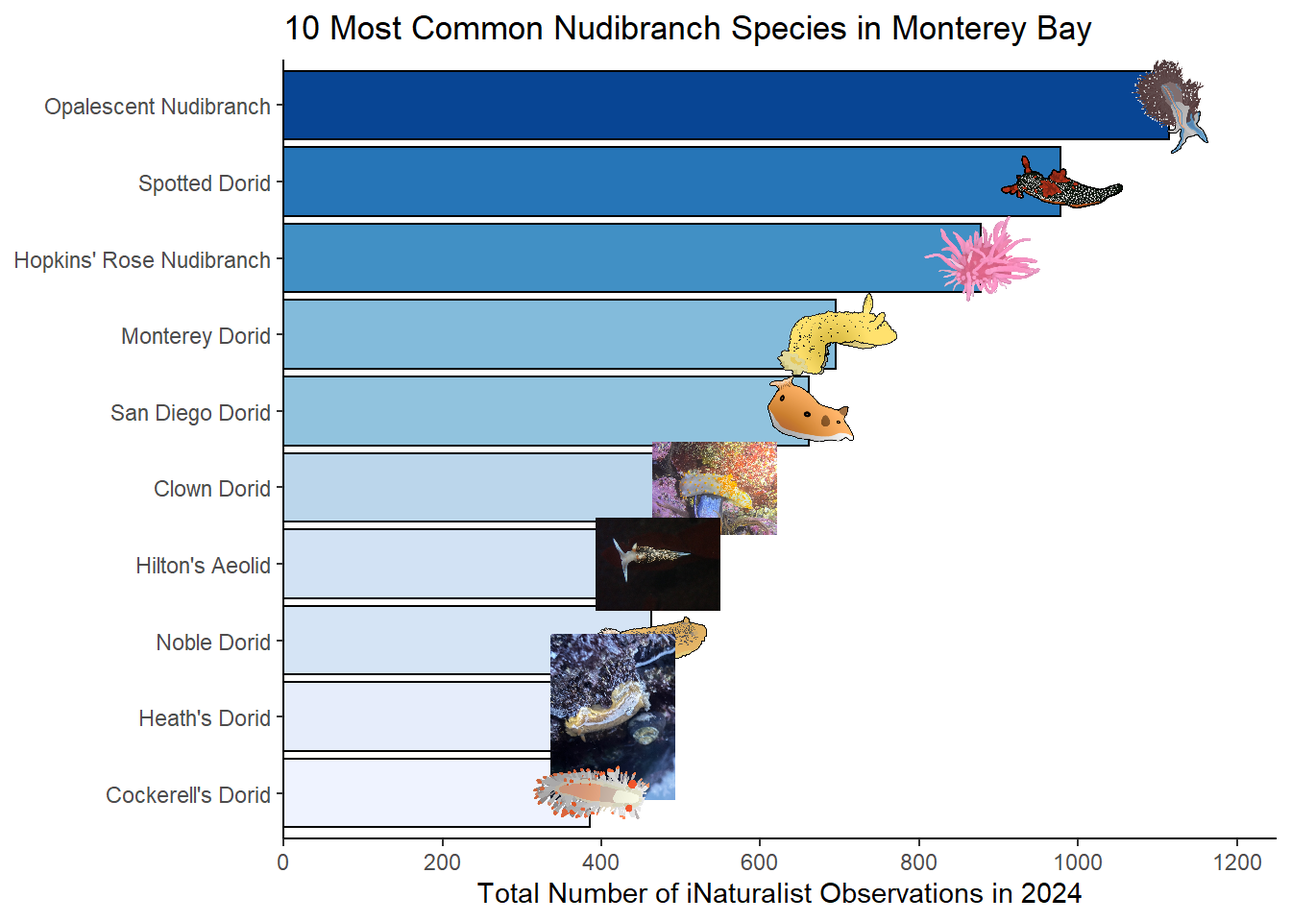
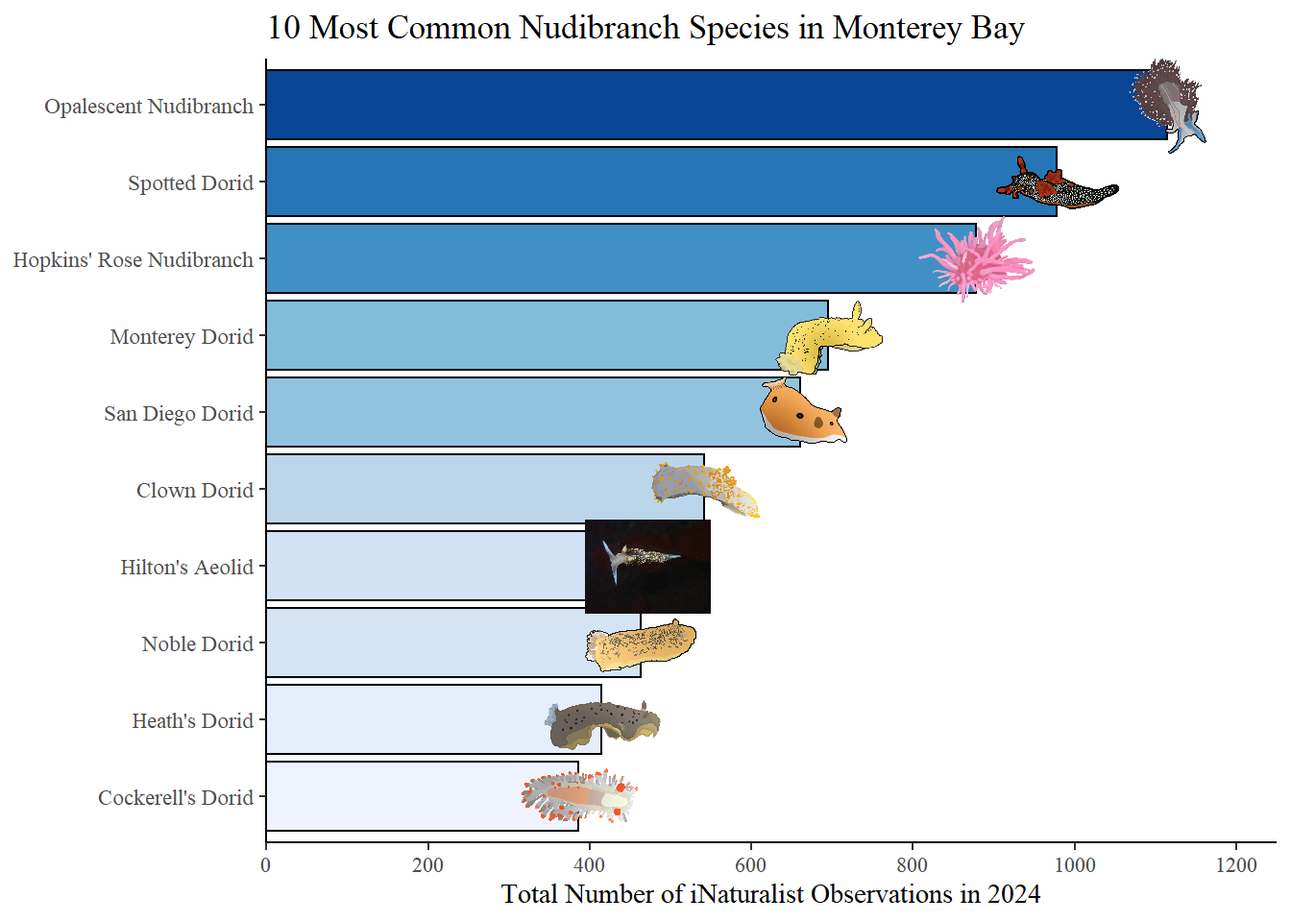
Finishing project

diff --git a/Portfolio_Project.html b/Portfolio_Project.html
@@ -121,6 +121,46 @@ pre > code.sourceCode > span > a:first-child::before { text-decoration: underlin
 <div class="cell-output cell-output-stderr">
 <pre><code>Warning: package 'ggimage' was built under R version 4.4.3</code></pre>
 </div>
+<div class="sourceCode cell-code" id="cb5"><pre class="sourceCode r code-with-copy"><code class="sourceCode r"><span id="cb5-1"><a href="#cb5-1" aria-hidden="true" tabindex="-1"></a><span class="fu">library</span>(ggraph)</span></code><button title="Copy to Clipboard" class="code-copy-button"><i class="bi"></i></button></pre></div>
+<div class="cell-output cell-output-stderr">
+<pre><code>Warning: package 'ggraph' was built under R version 4.4.3</code></pre>
+</div>
+<div class="sourceCode cell-code" id="cb7"><pre class="sourceCode r code-with-copy"><code class="sourceCode r"><span id="cb7-1"><a href="#cb7-1" aria-hidden="true" tabindex="-1"></a><span class="fu">library</span>(igraph)</span></code><button title="Copy to Clipboard" class="code-copy-button"><i class="bi"></i></button></pre></div>
+<div class="cell-output cell-output-stderr">
+<pre><code>Warning: package 'igraph' was built under R version 4.4.3</code></pre>
+</div>
+<div class="cell-output cell-output-stderr">
+<pre><code>
+Attaching package: 'igraph'
+
+The following objects are masked from 'package:lubridate':
+
+    %--%, union
+
+The following objects are masked from 'package:dplyr':
+
+    as_data_frame, groups, union
+
+The following objects are masked from 'package:purrr':
+
+    compose, simplify
+
+The following object is masked from 'package:tidyr':
+
+    crossing
+
+The following object is masked from 'package:tibble':
+
+    as_data_frame
+
+The following objects are masked from 'package:stats':
+
+    decompose, spectrum
+
+The following object is masked from 'package:base':
+
+    union</code></pre>
+</div>
 </div>
 <section id="data-description" class="level1">
 <h1>Data Description</h1>
@@ -136,7 +176,7 @@ pre > code.sourceCode > span > a:first-child::before { text-decoration: underlin
 <section id="data-visualization" class="level1">
 <h1>Data Visualization</h1>
 <p>To answer my first research question, I want to make a bar chart of the 10 species with the highest number of observations. I will make it in order of frequency, allowing readers to easily determine which species have the highest and lowest number of observations.</p>
-<p>For my second question, I want to make a shiny treemap, containing each of the species divided into family then species. This will help show the biodiversity of nudibranch observations in Monterey Bay by showing the number of different nudibranch families and species there are in Monterey Bay and how common they are compared to each other. Making it a shiny plot will also allow the boxes to be the center of attention instead of being cluttered by text and allow readers to explore the data in a way that a static plot could not.</p>
+<p>For my second question, I want to make a dendrogram, containing each of the species divided into suborder, superfamily, family, genus, then species. This will help show the biodiversity of nudibranch observations in Monterey Bay by showing the number of different nudibranch families and species there are in Monterey Bay. This will not only show how many unique species live in Monterey Bay but also how they relate to one another.</p>
 <p>To answer my final question, I want to make a ridgeline plot of all of the species of nudibranchs included to help show the overall trend of how nudibranch populations change by each month. I may also use annotations to highlight certain times of the year or certain seasons that correspond with peaks/valleys to explain the trend.</p>
 <p>To create a few of these visualizations, I may have to summarize the data into observation counts for each species.</p>
 </section>
@@ -150,7 +190,7 @@ pre > code.sourceCode > span > a:first-child::before { text-decoration: underlin
 <p>As stated in the Data Visualization section, I will have to summarize my data into total number of observations for each species in order to create some of my visualizations.</p>
 <p>One other aspect I am going to want to fix has to do with the common_name variable, as I want to refer to most species of nudibranch by their common name; however, a few species of nudibranch do not have a common name. Thus, I want to find a way to set their common name to be the same as their scientific name or create an entirely new name variable that can use their scientific name in place of the common name.</p>
 <div class="cell">
-<div class="sourceCode cell-code" id="cb5"><pre class="sourceCode r code-with-copy"><code class="sourceCode r"><span id="cb5-1"><a href="#cb5-1" aria-hidden="true" tabindex="-1"></a>nudibranch <span class="ot">&lt;-</span> <span class="fu">read_csv</span>(<span class="st">"data-raw/nudibranch-obs.csv"</span>)</span></code><button title="Copy to Clipboard" class="code-copy-button"><i class="bi"></i></button></pre></div>
+<div class="sourceCode cell-code" id="cb10"><pre class="sourceCode r code-with-copy"><code class="sourceCode r"><span id="cb10-1"><a href="#cb10-1" aria-hidden="true" tabindex="-1"></a>nudibranch <span class="ot">&lt;-</span> <span class="fu">read_csv</span>(<span class="st">"data-raw/nudibranch-obs.csv"</span>)</span></code><button title="Copy to Clipboard" class="code-copy-button"><i class="bi"></i></button></pre></div>
 <div class="cell-output cell-output-stderr">
 <pre><code>Rows: 9687 Columns: 33
 ── Column specification ────────────────────────────────────────────────────────
@@ -165,37 +205,44 @@ date  (1): observed_on
 </div>
 </div>
 <div class="cell">
-<div class="sourceCode cell-code" id="cb7"><pre class="sourceCode r code-with-copy"><code class="sourceCode r"><span id="cb7-1"><a href="#cb7-1" aria-hidden="true" tabindex="-1"></a>tot_nudibranchs <span class="ot">&lt;-</span> nudibranch <span class="sc">|&gt;</span> <span class="co">#saves dataset as "total_nudibranchs"</span></span>
-<span id="cb7-2"><a href="#cb7-2" aria-hidden="true" tabindex="-1"></a>  <span class="fu">mutate</span>(<span class="at">common_name =</span> <span class="fu">coalesce</span>(common_name, scientific_name)) <span class="sc">|&gt;</span> <span class="co">#replaces nas in common name variable with scientific name</span></span>
-<span id="cb7-3"><a href="#cb7-3" aria-hidden="true" tabindex="-1"></a>  <span class="fu">group_by</span>(common_name) <span class="sc">|&gt;</span> </span>
-<span id="cb7-4"><a href="#cb7-4" aria-hidden="true" tabindex="-1"></a>  <span class="fu">summarise</span>(<span class="st">"total_obs"</span> <span class="ot">=</span> <span class="fu">length</span>(common_name)) <span class="co">#summarizes total_obs as the number of each common name observation</span></span>
-<span id="cb7-5"><a href="#cb7-5" aria-hidden="true" tabindex="-1"></a></span>
-<span id="cb7-6"><a href="#cb7-6" aria-hidden="true" tabindex="-1"></a>tot_nudibranchs<span class="sc">$</span>image_file <span class="ot">&lt;-</span> <span class="fu">paste0</span>(<span class="st">"data-raw/nudibranch-photos/"</span>, </span>
-<span id="cb7-7"><a href="#cb7-7" aria-hidden="true" tabindex="-1"></a>                                     tot_nudibranchs<span class="sc">$</span>common_name, <span class="st">".png"</span>) <span class="co">#creates image address variable for each common name (see below)</span></span>
-<span id="cb7-8"><a href="#cb7-8" aria-hidden="true" tabindex="-1"></a></span>
-<span id="cb7-9"><a href="#cb7-9" aria-hidden="true" tabindex="-1"></a><span class="fu">write_csv</span>(tot_nudibranchs, <span class="at">file =</span> <span class="st">'data-clean/tot_nudibranchs.csv'</span>) <span class="co">#save new totals dataset as updated csv file</span></span></code><button title="Copy to Clipboard" class="code-copy-button"><i class="bi"></i></button></pre></div>
+<div class="sourceCode cell-code" id="cb12"><pre class="sourceCode r code-with-copy"><code class="sourceCode r"><span id="cb12-1"><a href="#cb12-1" aria-hidden="true" tabindex="-1"></a>nudibranch2 <span class="ot">&lt;-</span> nudibranch <span class="sc">|&gt;</span> <span class="co">#creates new nudibranch dataset with better naming</span></span>
+<span id="cb12-2"><a href="#cb12-2" aria-hidden="true" tabindex="-1"></a>  <span class="fu">mutate</span>(<span class="at">common_name =</span> <span class="fu">coalesce</span>(common_name, scientific_name)) <span class="sc">|&gt;</span> <span class="co">#replaces nas in common name variable with scientific name</span></span>
+<span id="cb12-3"><a href="#cb12-3" aria-hidden="true" tabindex="-1"></a>  <span class="fu">select</span>(common_name, scientific_name, taxon_family_name)</span>
+<span id="cb12-4"><a href="#cb12-4" aria-hidden="true" tabindex="-1"></a></span>
+<span id="cb12-5"><a href="#cb12-5" aria-hidden="true" tabindex="-1"></a>tot_nudibranch <span class="ot">&lt;-</span> nudibranch2 <span class="sc">|&gt;</span> <span class="co">#saves dataset as "total_nudibranchs"</span></span>
+<span id="cb12-6"><a href="#cb12-6" aria-hidden="true" tabindex="-1"></a>  <span class="fu">group_by</span>(common_name) <span class="sc">|&gt;</span> </span>
+<span id="cb12-7"><a href="#cb12-7" aria-hidden="true" tabindex="-1"></a>  <span class="fu">summarise</span>(<span class="st">"total_obs"</span> <span class="ot">=</span> <span class="fu">length</span>(common_name)) <span class="co">#summarizes total_obs as the number of each common name observation</span></span>
+<span id="cb12-8"><a href="#cb12-8" aria-hidden="true" tabindex="-1"></a></span>
+<span id="cb12-9"><a href="#cb12-9" aria-hidden="true" tabindex="-1"></a>tot_nudibranch <span class="ot">&lt;-</span> nudibranch2 <span class="sc">|&gt;</span> </span>
+<span id="cb12-10"><a href="#cb12-10" aria-hidden="true" tabindex="-1"></a>  <span class="fu">unique</span>() <span class="sc">|&gt;</span></span>
+<span id="cb12-11"><a href="#cb12-11" aria-hidden="true" tabindex="-1"></a>  <span class="fu">inner_join</span>(tot_nudibranch, <span class="at">by =</span> <span class="st">"common_name"</span>) <span class="co">#edits tot_nudibranch dataset to include taxon information</span></span>
+<span id="cb12-12"><a href="#cb12-12" aria-hidden="true" tabindex="-1"></a></span>
+<span id="cb12-13"><a href="#cb12-13" aria-hidden="true" tabindex="-1"></a>tot_nudibranch<span class="sc">$</span>image_file <span class="ot">&lt;-</span> <span class="fu">paste0</span>(<span class="st">"data-raw/nudibranch-photos/"</span>, </span>
+<span id="cb12-14"><a href="#cb12-14" aria-hidden="true" tabindex="-1"></a>                                     tot_nudibranch<span class="sc">$</span>common_name, <span class="st">".png"</span>) <span class="co">#creates image address variable for each common name (see below)</span></span>
+<span id="cb12-15"><a href="#cb12-15" aria-hidden="true" tabindex="-1"></a></span>
+<span id="cb12-16"><a href="#cb12-16" aria-hidden="true" tabindex="-1"></a><span class="fu">write_csv</span>(tot_nudibranch, <span class="at">file =</span> <span class="st">'data-clean/tot_nudibranchs.csv'</span>) <span class="co">#save new totals dataset as updated csv file</span></span></code><button title="Copy to Clipboard" class="code-copy-button"><i class="bi"></i></button></pre></div>
 </div>
-<p>The code to add an image file on lines 74-75 were modeled using a tutorial from Dean Chereden on YouTube. CSE Citation:<br>
+<p>The code to add an image file on lines 83-84 were modeled using a tutorial from Dean Chereden on YouTube. CSE Citation:<br>
 Dean Chereden. Add IMAGES to Charts in RStudio [video]. Youtube. 2023 Apr 27, 8:16 minutes. [accessed 2025 May 1]. https://www.youtube.com/watch?app=desktop&amp;v=Mt-lVqqZCVw.</p>
 <div class="cell">
-<div class="sourceCode cell-code" id="cb8"><pre class="sourceCode r code-with-copy"><code class="sourceCode r"><span id="cb8-1"><a href="#cb8-1" aria-hidden="true" tabindex="-1"></a>tot_nudibranchs <span class="sc">|&gt;</span></span>
-<span id="cb8-2"><a href="#cb8-2" aria-hidden="true" tabindex="-1"></a>  <span class="fu">arrange</span>(<span class="sc">-</span>total_obs) <span class="sc">|&gt;</span> <span class="co">#arrange by descending number of observations of each species</span></span>
-<span id="cb8-3"><a href="#cb8-3" aria-hidden="true" tabindex="-1"></a>  <span class="fu">head</span>(<span class="dv">10</span>) <span class="sc">|&gt;</span> <span class="co">#select only top 10 observations</span></span>
-<span id="cb8-4"><a href="#cb8-4" aria-hidden="true" tabindex="-1"></a>  <span class="fu">ggplot</span>(<span class="fu">aes</span>(<span class="at">x =</span> total_obs, </span>
-<span id="cb8-5"><a href="#cb8-5" aria-hidden="true" tabindex="-1"></a>               <span class="at">y =</span> <span class="fu">fct_reorder</span>(common_name, total_obs))) <span class="sc">+</span> <span class="co">#create plot with given aesthetics</span></span>
-<span id="cb8-6"><a href="#cb8-6" aria-hidden="true" tabindex="-1"></a>  <span class="fu">geom_col</span>(<span class="fu">aes</span>(<span class="at">fill =</span> total_obs), </span>
-<span id="cb8-7"><a href="#cb8-7" aria-hidden="true" tabindex="-1"></a>           <span class="at">color =</span> <span class="st">"black"</span>) <span class="sc">+</span> <span class="co">#create bar plot with color based on observation number</span></span>
-<span id="cb8-8"><a href="#cb8-8" aria-hidden="true" tabindex="-1"></a>  <span class="fu">guides</span>(<span class="at">fill =</span> <span class="st">"none"</span>) <span class="sc">+</span> <span class="co">#remove legend</span></span>
-<span id="cb8-9"><a href="#cb8-9" aria-hidden="true" tabindex="-1"></a>  <span class="fu">labs</span>(<span class="at">x =</span> <span class="st">"Total Number of iNaturalist Observations in 2024"</span>,</span>
-<span id="cb8-10"><a href="#cb8-10" aria-hidden="true" tabindex="-1"></a>       <span class="at">title =</span> <span class="st">"10 Most Common Nudibranch Species in Monterey Bay"</span>) <span class="sc">+</span> <span class="co">#create descriptive labels</span></span>
-<span id="cb8-11"><a href="#cb8-11" aria-hidden="true" tabindex="-1"></a>  <span class="fu">scale_x_continuous</span>(<span class="at">expand =</span> <span class="fu">c</span>(<span class="dv">0</span>,<span class="dv">0</span>), </span>
-<span id="cb8-12"><a href="#cb8-12" aria-hidden="true" tabindex="-1"></a>                     <span class="at">limits =</span> <span class="fu">c</span>(<span class="dv">0</span>,<span class="dv">1250</span>),</span>
-<span id="cb8-13"><a href="#cb8-13" aria-hidden="true" tabindex="-1"></a>                     <span class="at">breaks =</span> <span class="fu">c</span>(<span class="dv">0</span>, <span class="dv">200</span>, <span class="dv">400</span>, <span class="dv">600</span>, <span class="dv">800</span>, <span class="dv">1000</span>, <span class="dv">1200</span>)) <span class="sc">+</span> <span class="co">#resize x axis scale</span></span>
-<span id="cb8-14"><a href="#cb8-14" aria-hidden="true" tabindex="-1"></a>  <span class="fu">geom_image</span>(<span class="fu">aes</span>(<span class="at">image =</span> image_file),</span>
-<span id="cb8-15"><a href="#cb8-15" aria-hidden="true" tabindex="-1"></a>             <span class="at">size =</span> <span class="fl">0.16</span>) <span class="sc">+</span> <span class="co">#insert image on each bar in the bar plot (see below)</span></span>
-<span id="cb8-16"><a href="#cb8-16" aria-hidden="true" tabindex="-1"></a>  <span class="fu">theme_classic</span>() <span class="sc">+</span> <span class="co">#set theme to classic</span></span>
-<span id="cb8-17"><a href="#cb8-17" aria-hidden="true" tabindex="-1"></a>  <span class="fu">theme</span>(<span class="at">axis.title.y =</span> <span class="fu">element_blank</span>()) <span class="sc">+</span> <span class="co">#remove y axis label</span></span>
-<span id="cb8-18"><a href="#cb8-18" aria-hidden="true" tabindex="-1"></a>  <span class="fu">scale_fill_distiller</span>(<span class="at">direction =</span> <span class="dv">1</span>) <span class="co">#change fill color to brewer blues</span></span></code><button title="Copy to Clipboard" class="code-copy-button"><i class="bi"></i></button></pre></div>
+<div class="sourceCode cell-code" id="cb13"><pre class="sourceCode r code-with-copy"><code class="sourceCode r"><span id="cb13-1"><a href="#cb13-1" aria-hidden="true" tabindex="-1"></a>tot_nudibranch <span class="sc">|&gt;</span></span>
+<span id="cb13-2"><a href="#cb13-2" aria-hidden="true" tabindex="-1"></a>  <span class="fu">arrange</span>(<span class="sc">-</span>total_obs) <span class="sc">|&gt;</span> <span class="co">#arrange by descending number of observations of each species</span></span>
+<span id="cb13-3"><a href="#cb13-3" aria-hidden="true" tabindex="-1"></a>  <span class="fu">head</span>(<span class="dv">10</span>) <span class="sc">|&gt;</span> <span class="co">#select only top 10 observations</span></span>
+<span id="cb13-4"><a href="#cb13-4" aria-hidden="true" tabindex="-1"></a>  <span class="fu">ggplot</span>(<span class="fu">aes</span>(<span class="at">x =</span> total_obs, </span>
+<span id="cb13-5"><a href="#cb13-5" aria-hidden="true" tabindex="-1"></a>               <span class="at">y =</span> <span class="fu">fct_reorder</span>(common_name, total_obs))) <span class="sc">+</span> <span class="co">#create plot with given aesthetics</span></span>
+<span id="cb13-6"><a href="#cb13-6" aria-hidden="true" tabindex="-1"></a>  <span class="fu">geom_col</span>(<span class="fu">aes</span>(<span class="at">fill =</span> total_obs), </span>
+<span id="cb13-7"><a href="#cb13-7" aria-hidden="true" tabindex="-1"></a>           <span class="at">color =</span> <span class="st">"black"</span>) <span class="sc">+</span> <span class="co">#create bar plot with color based on observation number</span></span>
+<span id="cb13-8"><a href="#cb13-8" aria-hidden="true" tabindex="-1"></a>  <span class="fu">guides</span>(<span class="at">fill =</span> <span class="st">"none"</span>) <span class="sc">+</span> <span class="co">#remove legend</span></span>
+<span id="cb13-9"><a href="#cb13-9" aria-hidden="true" tabindex="-1"></a>  <span class="fu">labs</span>(<span class="at">x =</span> <span class="st">"Total Number of iNaturalist Observations in 2024"</span>,</span>
+<span id="cb13-10"><a href="#cb13-10" aria-hidden="true" tabindex="-1"></a>       <span class="at">title =</span> <span class="st">"10 Most Common Nudibranch Species in Monterey Bay"</span>) <span class="sc">+</span> <span class="co">#create descriptive labels</span></span>
+<span id="cb13-11"><a href="#cb13-11" aria-hidden="true" tabindex="-1"></a>  <span class="fu">scale_x_continuous</span>(<span class="at">expand =</span> <span class="fu">c</span>(<span class="dv">0</span>,<span class="dv">0</span>), </span>
+<span id="cb13-12"><a href="#cb13-12" aria-hidden="true" tabindex="-1"></a>                     <span class="at">limits =</span> <span class="fu">c</span>(<span class="dv">0</span>,<span class="dv">1250</span>),</span>
+<span id="cb13-13"><a href="#cb13-13" aria-hidden="true" tabindex="-1"></a>                     <span class="at">breaks =</span> <span class="fu">c</span>(<span class="dv">0</span>, <span class="dv">200</span>, <span class="dv">400</span>, <span class="dv">600</span>, <span class="dv">800</span>, <span class="dv">1000</span>, <span class="dv">1200</span>)) <span class="sc">+</span> <span class="co">#resize x axis scale</span></span>
+<span id="cb13-14"><a href="#cb13-14" aria-hidden="true" tabindex="-1"></a>  <span class="fu">geom_image</span>(<span class="fu">aes</span>(<span class="at">image =</span> image_file),</span>
+<span id="cb13-15"><a href="#cb13-15" aria-hidden="true" tabindex="-1"></a>             <span class="at">size =</span> <span class="fl">0.16</span>) <span class="sc">+</span> <span class="co">#insert image on each bar in the bar plot (see below)</span></span>
+<span id="cb13-16"><a href="#cb13-16" aria-hidden="true" tabindex="-1"></a>  <span class="fu">theme_classic</span>() <span class="sc">+</span> <span class="co">#set theme to classic</span></span>
+<span id="cb13-17"><a href="#cb13-17" aria-hidden="true" tabindex="-1"></a>  <span class="fu">theme</span>(<span class="at">axis.title.y =</span> <span class="fu">element_blank</span>()) <span class="sc">+</span> <span class="co">#remove y axis label</span></span>
+<span id="cb13-18"><a href="#cb13-18" aria-hidden="true" tabindex="-1"></a>  <span class="fu">scale_fill_distiller</span>(<span class="at">direction =</span> <span class="dv">1</span>) <span class="co">#change fill color to brewer blues</span></span></code><button title="Copy to Clipboard" class="code-copy-button"><i class="bi"></i></button></pre></div>
 <div class="cell-output-display">
 <div>
 <figure class="figure">
@@ -204,8 +251,58 @@ Dean Chereden. Add IMAGES to Charts in RStudio [video]. Youtube. 2023 Apr 27, 8:
 </div>
 </div>
 </div>
-<p>The code to add an image file on lines 99-100 were modeled using a tutorial from Dean Chereden on YouTube. CSE Citation:<br>
+<p>The code to add an image file on lines 108-109 were modeled using a tutorial from Dean Chereden on YouTube. CSE Citation:<br>
 Dean Chereden. Add IMAGES to Charts in RStudio [video]. Youtube. 2023 Apr 27, 8:16 minutes. [accessed 2025 May 1]. https://www.youtube.com/watch?app=desktop&amp;v=Mt-lVqqZCVw.</p>
+<div class="cell">
+<div class="sourceCode cell-code" id="cb14"><pre class="sourceCode r code-with-copy"><code class="sourceCode r"><span id="cb14-1"><a href="#cb14-1" aria-hidden="true" tabindex="-1"></a>nudi1 <span class="ot">&lt;-</span> nudibranch <span class="sc">|&gt;</span> <span class="co">#creates nudi1 dataframe using mollusca as the origin and suborder as first group</span></span>
+<span id="cb14-2"><a href="#cb14-2" aria-hidden="true" tabindex="-1"></a>  <span class="fu">select</span>(iconic_taxon_name, taxon_suborder_name) <span class="sc">|&gt;</span> <span class="co">#picking only relevant variables</span></span>
+<span id="cb14-3"><a href="#cb14-3" aria-hidden="true" tabindex="-1"></a>  <span class="fu">unique</span>() <span class="sc">|&gt;</span> <span class="co">#selecting only each unique occurance</span></span>
+<span id="cb14-4"><a href="#cb14-4" aria-hidden="true" tabindex="-1"></a>  <span class="fu">rename</span>(<span class="st">"from"</span> <span class="ot">=</span> iconic_taxon_name, <span class="st">"to"</span> <span class="ot">=</span> taxon_suborder_name) <span class="co">#renaming variables for later cbind</span></span>
+<span id="cb14-5"><a href="#cb14-5" aria-hidden="true" tabindex="-1"></a></span>
+<span id="cb14-6"><a href="#cb14-6" aria-hidden="true" tabindex="-1"></a>nudi2 <span class="ot">&lt;-</span> nudibranch <span class="sc">|&gt;</span></span>
+<span id="cb14-7"><a href="#cb14-7" aria-hidden="true" tabindex="-1"></a>  <span class="fu">select</span>(taxon_suborder_name, taxon_superfamily_name) <span class="sc">|&gt;</span></span>
+<span id="cb14-8"><a href="#cb14-8" aria-hidden="true" tabindex="-1"></a>  <span class="fu">unique</span>() <span class="sc">|&gt;</span></span>
+<span id="cb14-9"><a href="#cb14-9" aria-hidden="true" tabindex="-1"></a>  <span class="fu">rename</span>(<span class="st">"from"</span> <span class="ot">=</span> taxon_suborder_name, <span class="st">"to"</span> <span class="ot">=</span> taxon_superfamily_name) <span class="co">#repeating above for suborder and superfamily</span></span>
+<span id="cb14-10"><a href="#cb14-10" aria-hidden="true" tabindex="-1"></a></span>
+<span id="cb14-11"><a href="#cb14-11" aria-hidden="true" tabindex="-1"></a>nudi3 <span class="ot">&lt;-</span> nudibranch <span class="sc">|&gt;</span></span>
+<span id="cb14-12"><a href="#cb14-12" aria-hidden="true" tabindex="-1"></a>  <span class="fu">select</span>(taxon_superfamily_name, taxon_family_name) <span class="sc">|&gt;</span></span>
+<span id="cb14-13"><a href="#cb14-13" aria-hidden="true" tabindex="-1"></a>  <span class="fu">unique</span>() <span class="sc">|&gt;</span></span>
+<span id="cb14-14"><a href="#cb14-14" aria-hidden="true" tabindex="-1"></a>  <span class="fu">rename</span>(<span class="st">"from"</span> <span class="ot">=</span> taxon_superfamily_name, <span class="st">"to"</span> <span class="ot">=</span> taxon_family_name) <span class="co">#repeating above for superfamily and family</span></span>
+<span id="cb14-15"><a href="#cb14-15" aria-hidden="true" tabindex="-1"></a></span>
+<span id="cb14-16"><a href="#cb14-16" aria-hidden="true" tabindex="-1"></a>nudi4 <span class="ot">&lt;-</span> nudibranch <span class="sc">|&gt;</span></span>
+<span id="cb14-17"><a href="#cb14-17" aria-hidden="true" tabindex="-1"></a>  <span class="fu">select</span>(taxon_family_name, taxon_genus_name) <span class="sc">|&gt;</span></span>
+<span id="cb14-18"><a href="#cb14-18" aria-hidden="true" tabindex="-1"></a>  <span class="fu">unique</span>() <span class="sc">|&gt;</span></span>
+<span id="cb14-19"><a href="#cb14-19" aria-hidden="true" tabindex="-1"></a>  <span class="fu">rename</span>(<span class="st">"from"</span> <span class="ot">=</span> taxon_family_name, <span class="st">"to"</span> <span class="ot">=</span> taxon_genus_name) <span class="co">#repeating above for family and genus</span></span>
+<span id="cb14-20"><a href="#cb14-20" aria-hidden="true" tabindex="-1"></a></span>
+<span id="cb14-21"><a href="#cb14-21" aria-hidden="true" tabindex="-1"></a>nudi5 <span class="ot">&lt;-</span> nudibranch <span class="sc">|&gt;</span></span>
+<span id="cb14-22"><a href="#cb14-22" aria-hidden="true" tabindex="-1"></a>  <span class="fu">mutate</span>(<span class="at">common_name =</span> <span class="fu">coalesce</span>(common_name, scientific_name)) <span class="sc">|&gt;</span> <span class="co">#adding scientific to NA common names</span></span>
+<span id="cb14-23"><a href="#cb14-23" aria-hidden="true" tabindex="-1"></a>  <span class="fu">select</span>(taxon_genus_name, common_name) <span class="sc">|&gt;</span></span>
+<span id="cb14-24"><a href="#cb14-24" aria-hidden="true" tabindex="-1"></a>  <span class="fu">unique</span>() <span class="sc">|&gt;</span></span>
+<span id="cb14-25"><a href="#cb14-25" aria-hidden="true" tabindex="-1"></a>  <span class="fu">rename</span>(<span class="st">"from"</span> <span class="ot">=</span> taxon_genus_name, <span class="st">"to"</span> <span class="ot">=</span> common_name) <span class="co">#repeating above for genus and common name (species)</span></span>
+<span id="cb14-26"><a href="#cb14-26" aria-hidden="true" tabindex="-1"></a></span>
+<span id="cb14-27"><a href="#cb14-27" aria-hidden="true" tabindex="-1"></a>nudi_edges <span class="ot">&lt;-</span> <span class="fu">rbind</span>(nudi1, nudi2, nudi3, nudi4, nudi5) <span class="co">#combining all 5 datasets into one edge dataset</span></span>
+<span id="cb14-28"><a href="#cb14-28" aria-hidden="true" tabindex="-1"></a></span>
+<span id="cb14-29"><a href="#cb14-29" aria-hidden="true" tabindex="-1"></a>nudi_dendrogram <span class="ot">&lt;-</span> <span class="fu">graph_from_data_frame</span>(nudi_edges) <span class="co">#creating a graph object to be used in ggraph</span></span>
+<span id="cb14-30"><a href="#cb14-30" aria-hidden="true" tabindex="-1"></a></span>
+<span id="cb14-31"><a href="#cb14-31" aria-hidden="true" tabindex="-1"></a><span class="fu">ggraph</span>(nudi_dendrogram, <span class="at">layout =</span> <span class="st">'dendrogram'</span>, <span class="at">circular =</span> <span class="cn">FALSE</span>) <span class="sc">+</span> <span class="co">#creating dendrogram from nudi_dendrogram</span></span>
+<span id="cb14-32"><a href="#cb14-32" aria-hidden="true" tabindex="-1"></a>  <span class="fu">geom_edge_diagonal</span>() <span class="sc">+</span></span>
+<span id="cb14-33"><a href="#cb14-33" aria-hidden="true" tabindex="-1"></a>  <span class="fu">geom_node_text</span>(<span class="fu">aes</span>(<span class="at">label=</span>name, <span class="at">filter=</span>leaf), </span>
+<span id="cb14-34"><a href="#cb14-34" aria-hidden="true" tabindex="-1"></a>                 <span class="at">angle=</span><span class="dv">90</span> , </span>
+<span id="cb14-35"><a href="#cb14-35" aria-hidden="true" tabindex="-1"></a>                 <span class="at">hjust=</span><span class="dv">1</span>, </span>
+<span id="cb14-36"><a href="#cb14-36" aria-hidden="true" tabindex="-1"></a>                 <span class="at">nudge_y =</span> <span class="sc">-</span><span class="fl">0.1</span>, </span>
+<span id="cb14-37"><a href="#cb14-37" aria-hidden="true" tabindex="-1"></a>                 <span class="at">nudge_x =</span> <span class="sc">-</span><span class="fl">0.15</span>,</span>
+<span id="cb14-38"><a href="#cb14-38" aria-hidden="true" tabindex="-1"></a>                 <span class="at">size =</span> <span class="dv">2</span>) <span class="sc">+</span> <span class="co">#creates text object for each common name and aligns it with node point</span></span>
+<span id="cb14-39"><a href="#cb14-39" aria-hidden="true" tabindex="-1"></a>  <span class="fu">geom_node_point</span>(<span class="fu">aes</span>(<span class="at">filter=</span>leaf) , <span class="at">alpha=</span><span class="fl">0.6</span>) <span class="sc">+</span> <span class="co">#creates node point at each end</span></span>
+<span id="cb14-40"><a href="#cb14-40" aria-hidden="true" tabindex="-1"></a>  <span class="fu">ylim</span>(<span class="sc">-</span><span class="fl">2.15</span>, <span class="cn">NA</span>) <span class="sc">+</span> <span class="co">#expands y-axis vertically</span></span>
+<span id="cb14-41"><a href="#cb14-41" aria-hidden="true" tabindex="-1"></a>  <span class="fu">theme_void</span>() <span class="co">#sets theme to void</span></span></code><button title="Copy to Clipboard" class="code-copy-button"><i class="bi"></i></button></pre></div>
+<div class="cell-output-display">
+<div>
+<figure class="figure">
+<p><img src="Portfolio_Project_files/figure-html/creating-nudi_edges-dataset-1.png" class="img-fluid figure-img" width="672"></p>
+</figure>
+</div>
+</div>
+</div>
 <p>In the above visualization, I still need to draw the three remaining nudibranchs and resize a few of the photos for evenness. The reference photos were taken/drawn by me with the exception of the hilton’s aeolid photo, which was taken by Cricket Raspet on iNaturalist. CSE Citation: Cricket Raspet. Hilton’s Aeolid. iNaturalist; April 2025 [2025 May 1]. https://www.inaturalist.org/observations/277237816.</p>
 </section>
 
